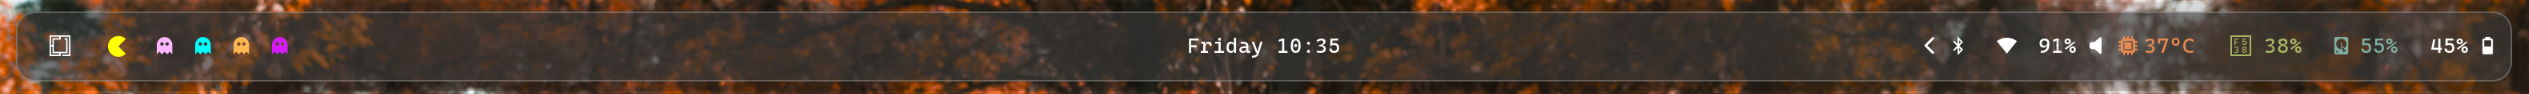
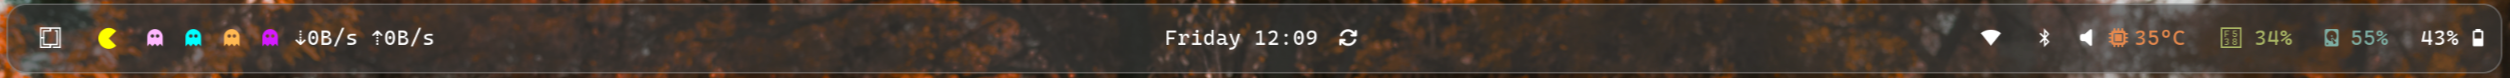
Uploaded Waybar configs + PNG
Uploaded updated config.jsonc and style.css
Uploaded new picture of updatet Waybar
Uploaded script to run custom/net-speed

diff --git a/style.css b/style.css
@@ -95,6 +95,12 @@ box#window {
 }
 
 /* --- Middle Modules --- */
+
+/* - custom/update - */
+#custom-update {
+    min-width: 15px;
+}
+
 /* - CPU - */
 #cpu{
     border-bottom: none;
